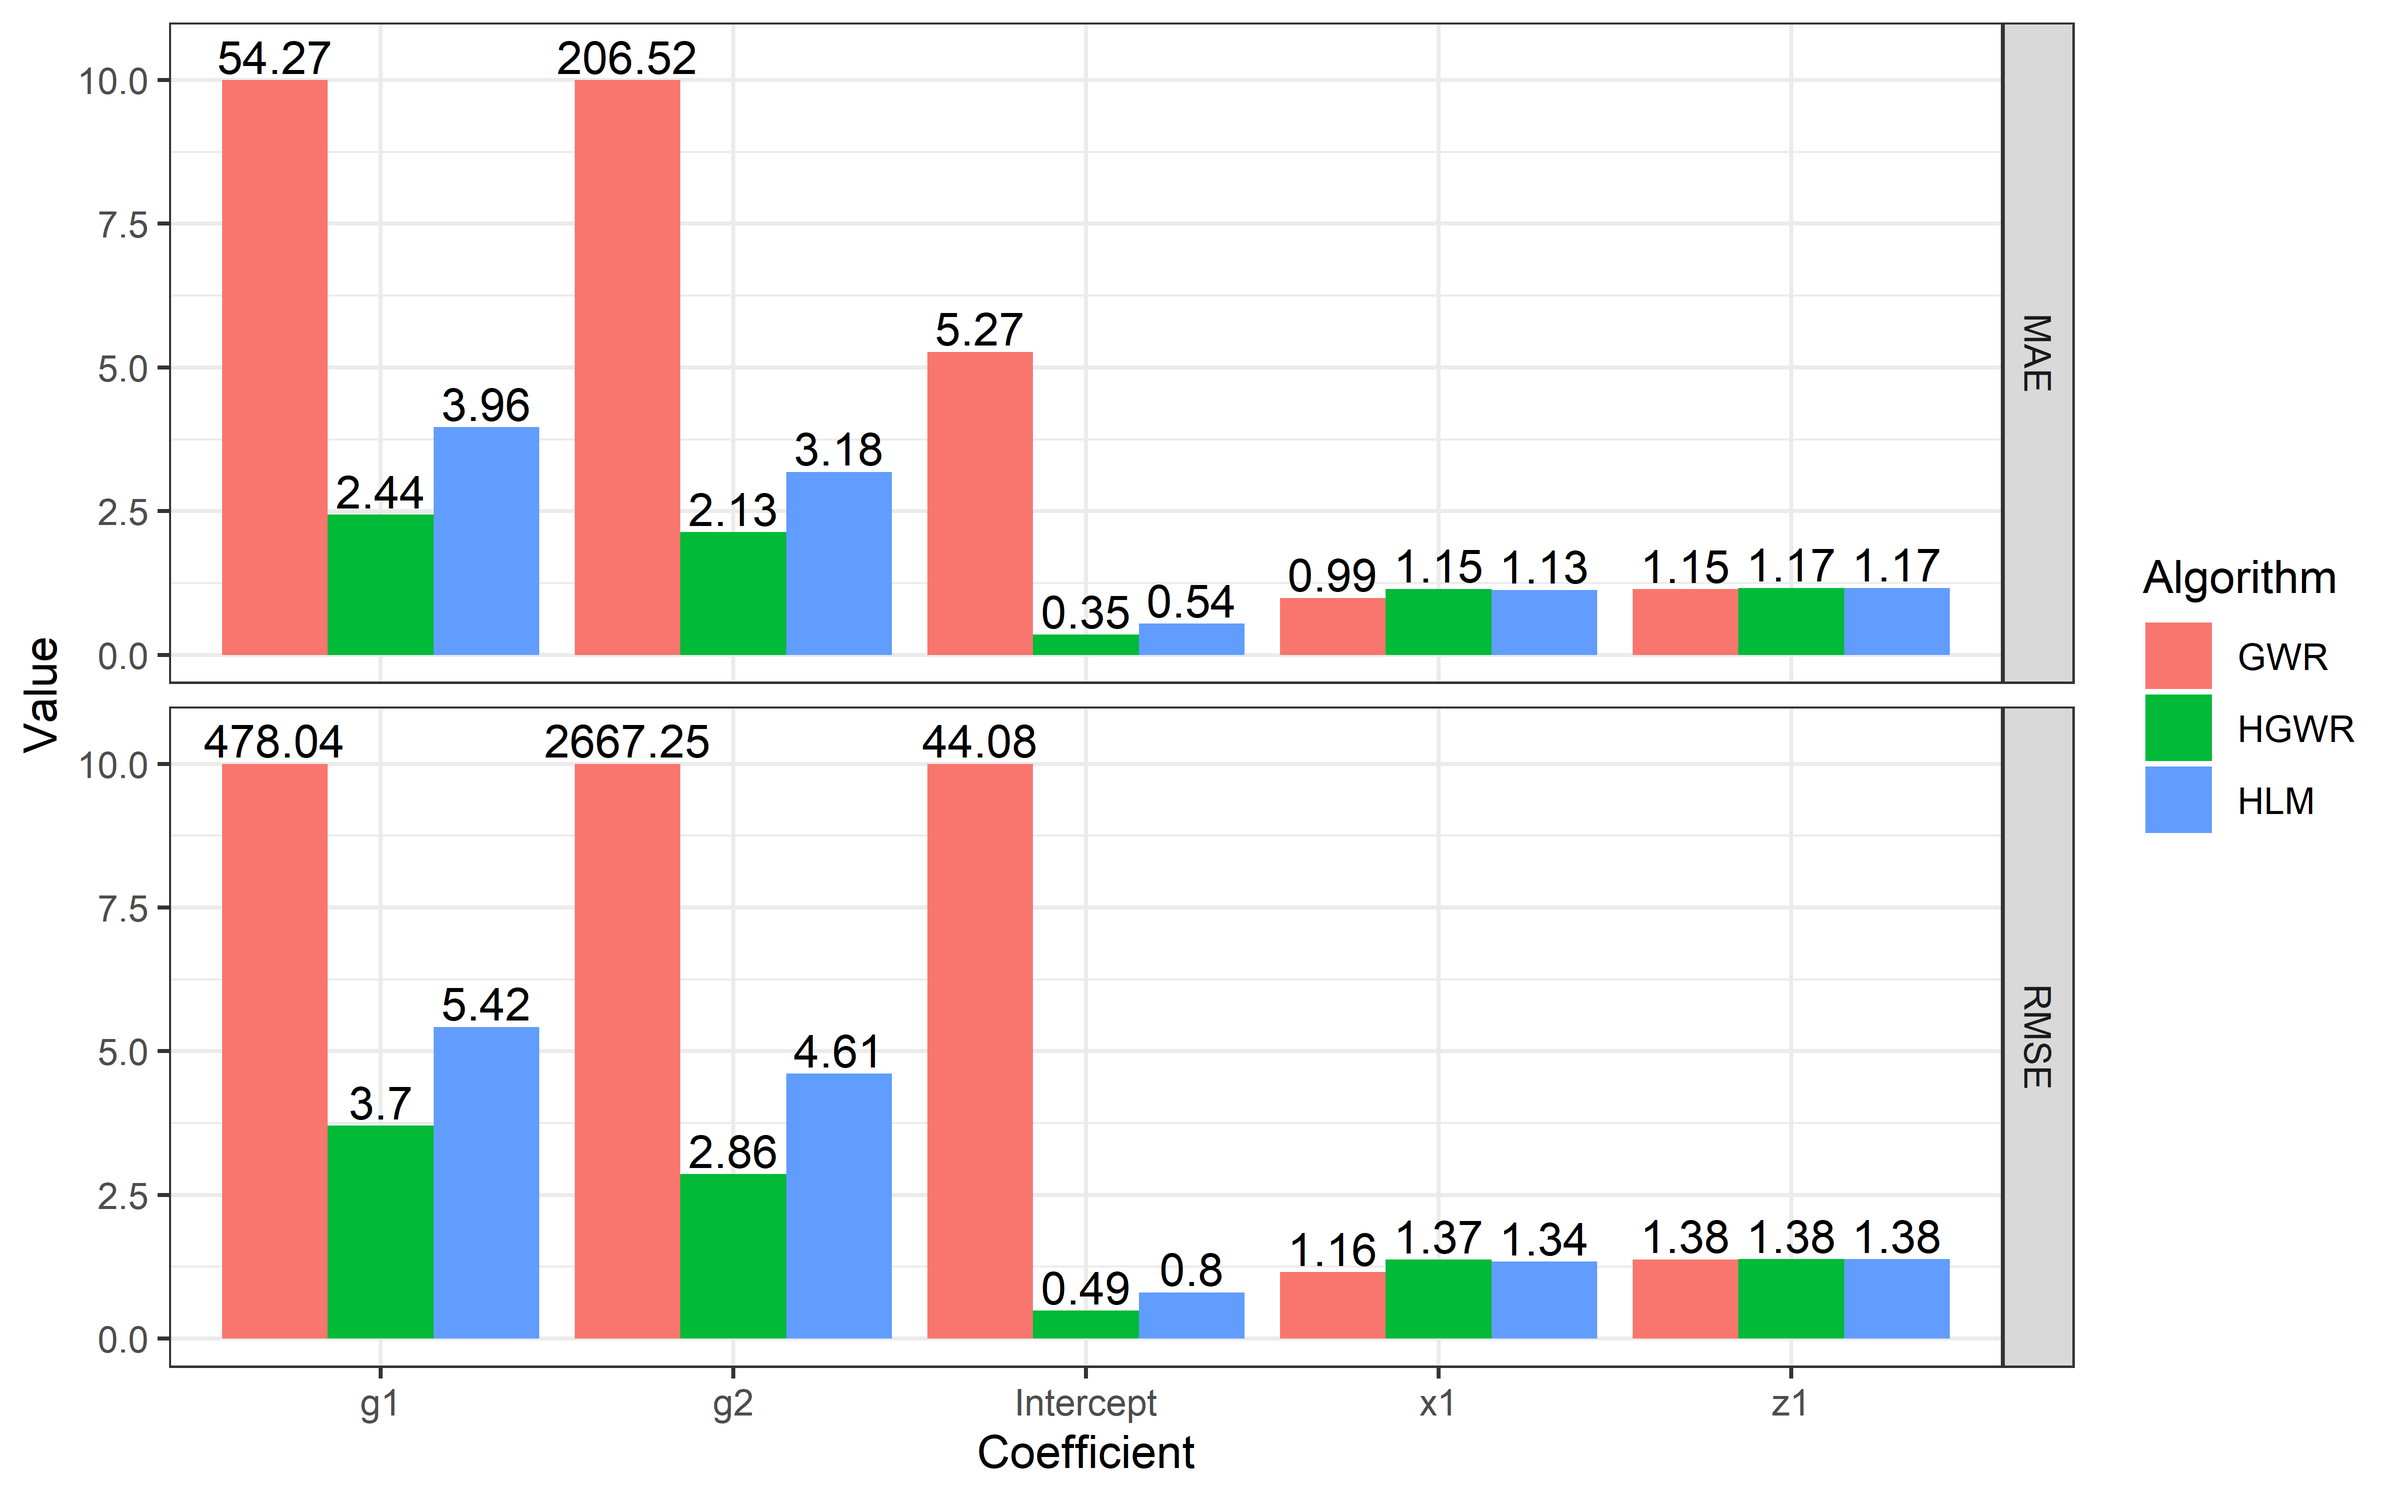
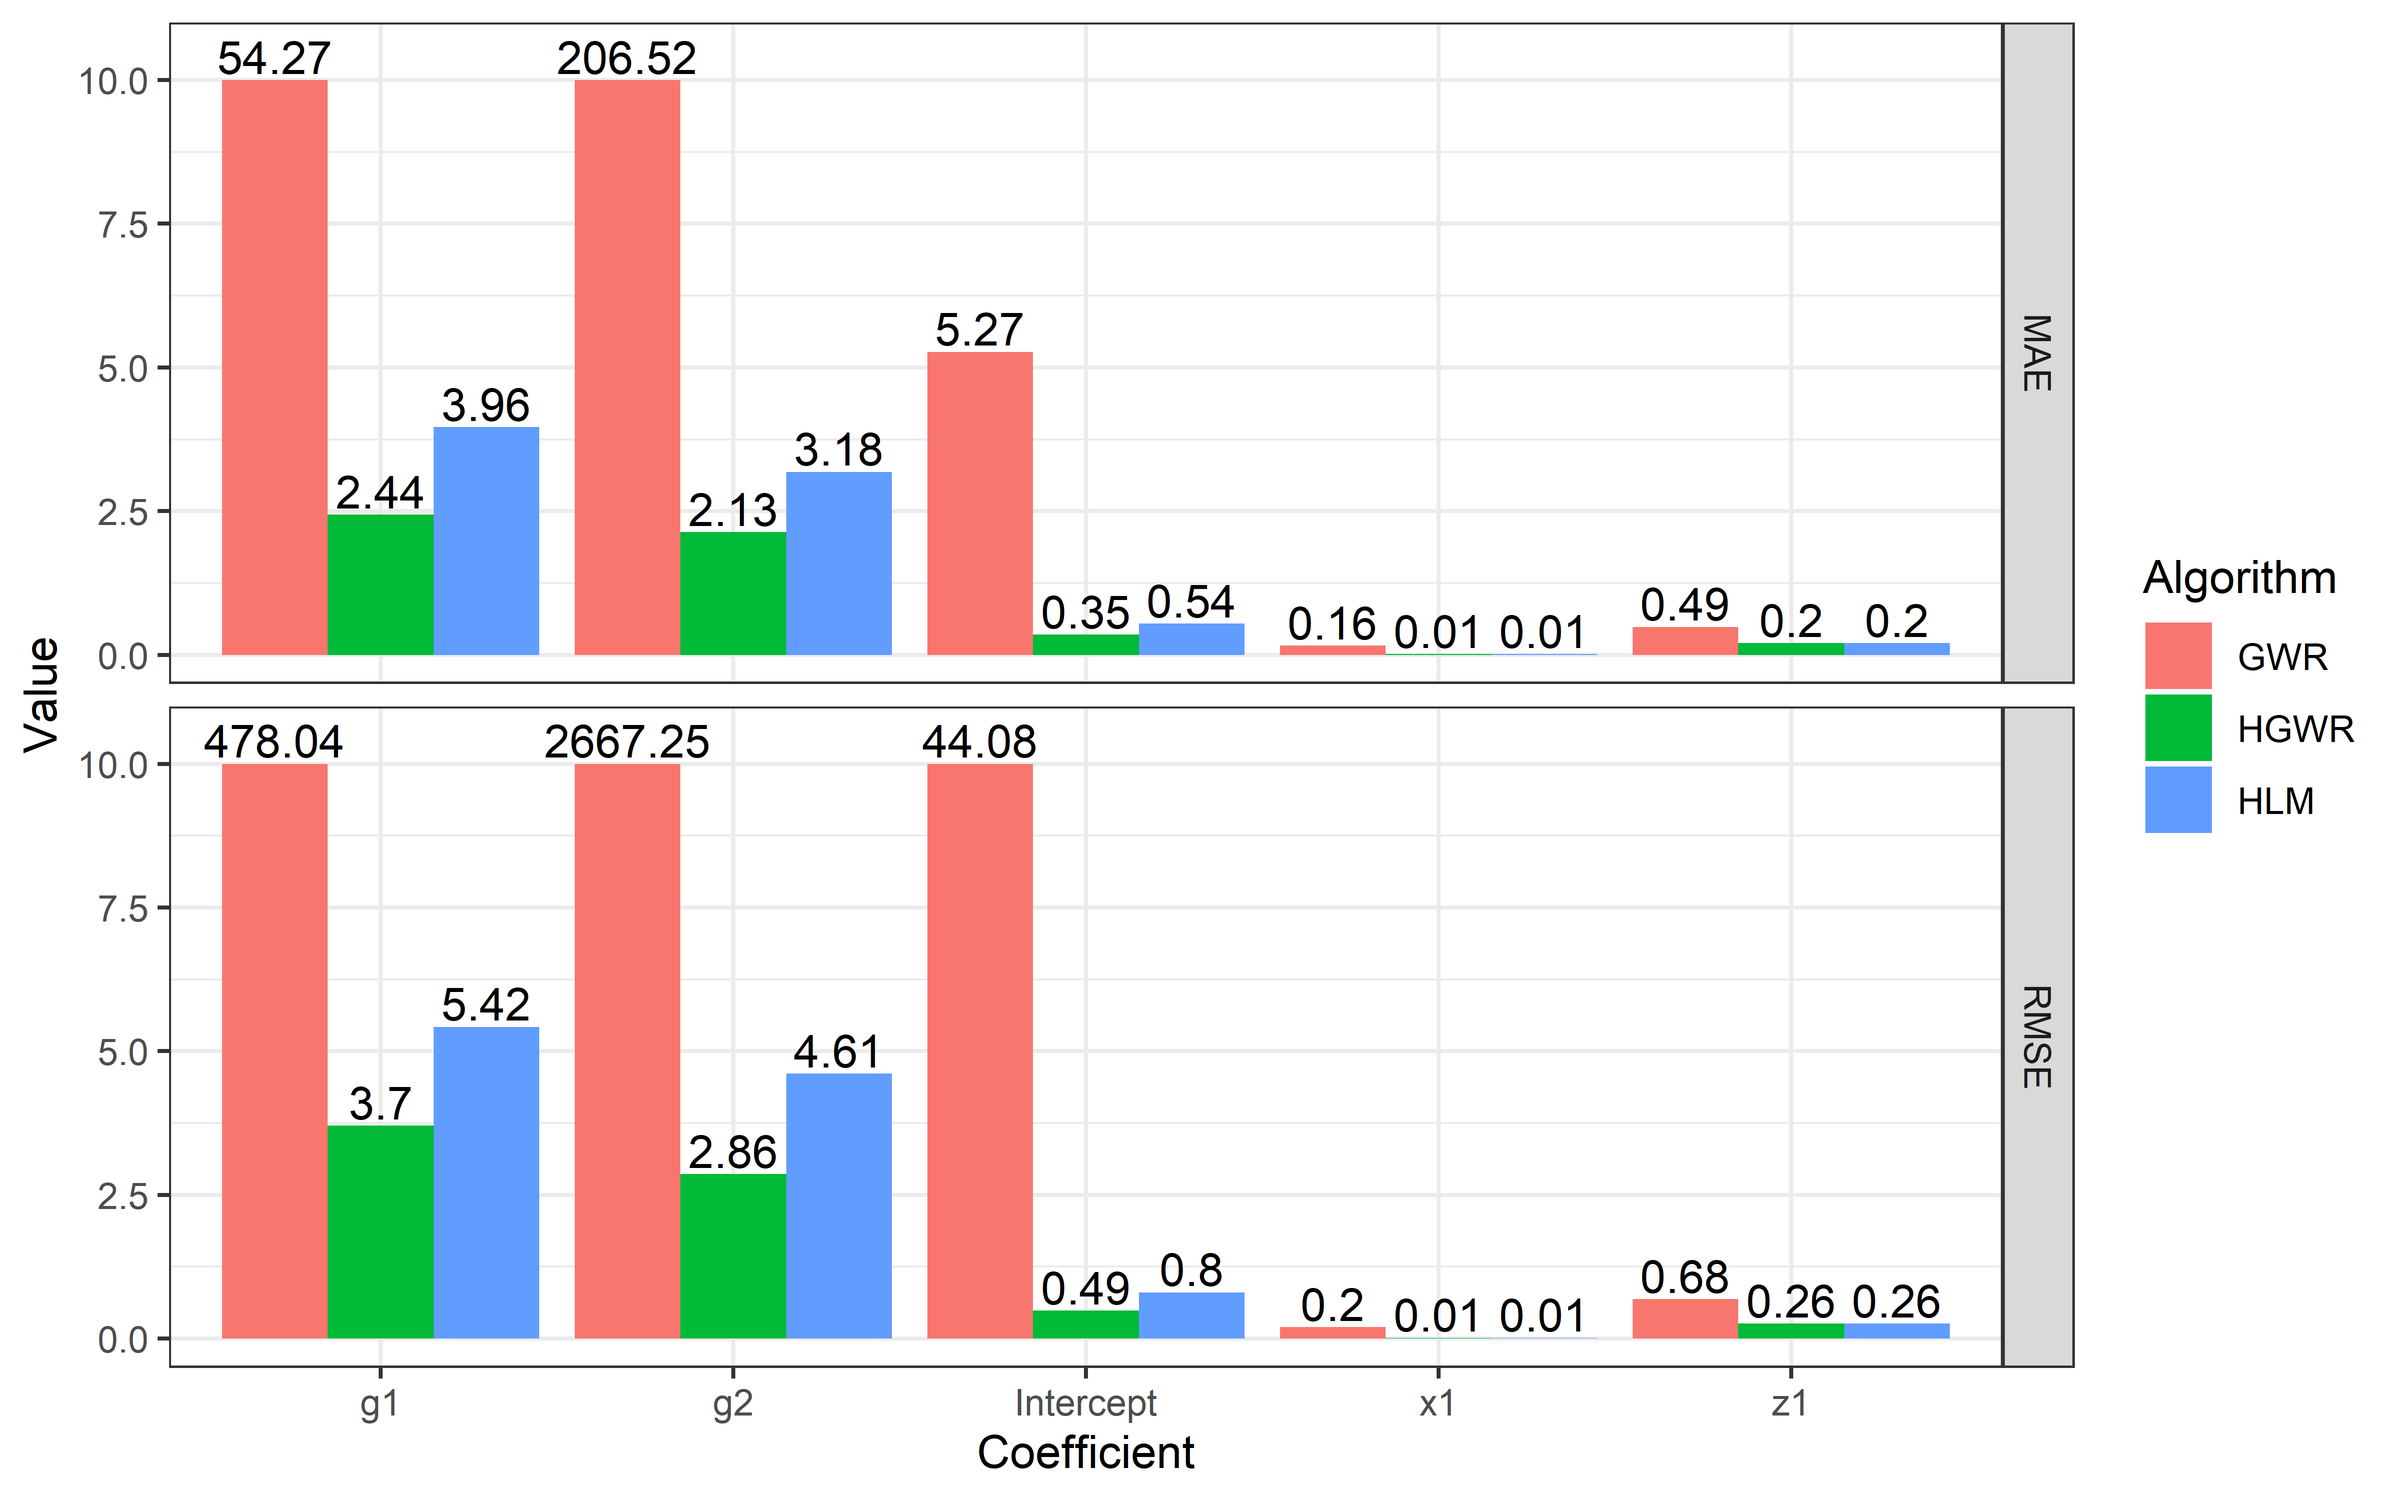
fix: an error in Comparison

Changed region(s): [[0.5312, 0.806, 0.8125, 0.899], [0.5312, 0.372, 0.8125, 0.434]]

diff --git a/index.html b/index.html
@@ -997,7 +997,7 @@ get results.</p>
 and mean absolute errors of estimations and true values are also very
 useful to assess the fitting performance.</p>
 <div class="sourceCode" id="cb23"><pre class="sourceCode r"><code class="sourceCode r"><span id="cb23-1"><a href="#cb23-1" aria-hidden="true" tabindex="-1"></a>msl_hgwr_err <span class="ot">&lt;-</span> <span class="fu">coef</span>(msl_hgwr) <span class="sc">%&gt;%</span></span>
-<span id="cb23-2"><a href="#cb23-2" aria-hidden="true" tabindex="-1"></a>  <span class="fu">select</span>(Intercept, g1, g2, x1, z1) <span class="sc">%&gt;%</span> {</span>
+<span id="cb23-2"><a href="#cb23-2" aria-hidden="true" tabindex="-1"></a>  <span class="fu">select</span>(Intercept, g1, g2, z1, x1) <span class="sc">%&gt;%</span> {</span>
 <span id="cb23-3"><a href="#cb23-3" aria-hidden="true" tabindex="-1"></a>    <span class="fu">as.data.frame</span>(<span class="fu">rbind</span>(</span>
 <span id="cb23-4"><a href="#cb23-4" aria-hidden="true" tabindex="-1"></a>      <span class="at">MAE =</span> <span class="fu">map2_dbl</span>(msl_beta, ., <span class="sc">~</span> <span class="fu">mean</span>(<span class="fu">abs</span>(.x <span class="sc">-</span> .y))),</span>
 <span id="cb23-5"><a href="#cb23-5" aria-hidden="true" tabindex="-1"></a>      <span class="at">RMSE =</span> <span class="fu">map2_dbl</span>(msl_beta, ., <span class="sc">~</span> <span class="fu">sqrt</span>(<span class="fu">mean</span>((.x <span class="sc">-</span> .y)<span class="sc">^</span><span class="dv">2</span>)))</span>
@@ -1022,16 +1022,16 @@ useful to assess the fitting performance.</p>
 <td align="right">0.3529462</td>
 <td align="right">2.437674</td>
 <td align="right">2.134569</td>
-<td align="right">1.165641</td>
-<td align="right">1.148090</td>
+<td align="right">0.2027014</td>
+<td align="right">0.0106994</td>
 </tr>
 <tr class="even">
 <td align="left">RMSE</td>
 <td align="right">0.4856966</td>
 <td align="right">3.703679</td>
 <td align="right">2.862071</td>
-<td align="right">1.382563</td>
-<td align="right">1.371016</td>
+<td align="right">0.2575985</td>
+<td align="right">0.0106994</td>
 </tr>
 </tbody>
 </table>
@@ -1085,7 +1085,7 @@ calibrated with the following codes.</p>
 <span id="cb26-12"><a href="#cb26-12" aria-hidden="true" tabindex="-1"></a>  <span class="fu">summarise_all</span>(mean)</span>
 <span id="cb26-13"><a href="#cb26-13" aria-hidden="true" tabindex="-1"></a><span class="do">##### Calculate RMSE and MAE of estimations.</span></span>
 <span id="cb26-14"><a href="#cb26-14" aria-hidden="true" tabindex="-1"></a>msl_gwr_err <span class="ot">&lt;-</span> msl_gwr_coef <span class="sc">%&gt;%</span></span>
-<span id="cb26-15"><a href="#cb26-15" aria-hidden="true" tabindex="-1"></a>  <span class="fu">select</span>(Intercept, g1, g2, x1, z1) <span class="sc">%&gt;%</span> {</span>
+<span id="cb26-15"><a href="#cb26-15" aria-hidden="true" tabindex="-1"></a>  <span class="fu">select</span>(Intercept, g1, g2, z1, x1) <span class="sc">%&gt;%</span> {</span>
 <span id="cb26-16"><a href="#cb26-16" aria-hidden="true" tabindex="-1"></a>    <span class="fu">as.data.frame</span>(<span class="fu">rbind</span>(</span>
 <span id="cb26-17"><a href="#cb26-17" aria-hidden="true" tabindex="-1"></a>      <span class="at">MAE =</span> <span class="fu">map2_dbl</span>(msl_beta, ., <span class="sc">~</span> <span class="fu">mean</span>(<span class="fu">abs</span>(.x <span class="sc">-</span> .y))),</span>
 <span id="cb26-18"><a href="#cb26-18" aria-hidden="true" tabindex="-1"></a>      <span class="at">RMSE =</span> <span class="fu">map2_dbl</span>(msl_beta, ., <span class="sc">~</span> <span class="fu">sqrt</span>(<span class="fu">mean</span>((.x <span class="sc">-</span> .y)<span class="sc">^</span><span class="dv">2</span>)))</span>
@@ -1110,16 +1110,16 @@ calibrated with the following codes.</p>
 <td align="right">5.27123</td>
 <td align="right">54.27019</td>
 <td align="right">206.523</td>
-<td align="right">1.145032</td>
-<td align="right">0.9914012</td>
+<td align="right">0.4871780</td>
+<td align="right">0.1620288</td>
 </tr>
 <tr class="even">
 <td align="left">RMSE</td>
 <td align="right">44.07530</td>
 <td align="right">478.03679</td>
 <td align="right">2667.250</td>
-<td align="right">1.376936</td>
-<td align="right">1.1573819</td>
+<td align="right">0.6847527</td>
+<td align="right">0.1980524</td>
 </tr>
 </tbody>
 </table>
@@ -1133,7 +1133,7 @@ calibrated with the following codes.</p>
 <span id="cb27-6"><a href="#cb27-6" aria-hidden="true" tabindex="-1"></a>msl_hlm_coef <span class="ot">&lt;-</span> <span class="fu">coef</span>(msl_hlm)<span class="sc">$</span>group</span>
 <span id="cb27-7"><a href="#cb27-7" aria-hidden="true" tabindex="-1"></a><span class="fu">colnames</span>(msl_hlm_coef)[<span class="fu">which</span>(<span class="fu">colnames</span>(msl_hlm_coef) <span class="sc">==</span> <span class="st">&quot;(Intercept)&quot;</span>)] <span class="ot">&lt;-</span> <span class="st">&quot;Intercept&quot;</span></span>
 <span id="cb27-8"><a href="#cb27-8" aria-hidden="true" tabindex="-1"></a>msl_hlm_err <span class="ot">&lt;-</span> msl_hlm_coef <span class="sc">%&gt;%</span></span>
-<span id="cb27-9"><a href="#cb27-9" aria-hidden="true" tabindex="-1"></a>  <span class="fu">select</span>(Intercept, g1, g2, x1, z1) <span class="sc">%&gt;%</span> {</span>
+<span id="cb27-9"><a href="#cb27-9" aria-hidden="true" tabindex="-1"></a>  <span class="fu">select</span>(Intercept, g1, g2, z1, x1) <span class="sc">%&gt;%</span> {</span>
 <span id="cb27-10"><a href="#cb27-10" aria-hidden="true" tabindex="-1"></a>    <span class="fu">as.data.frame</span>(<span class="fu">rbind</span>(</span>
 <span id="cb27-11"><a href="#cb27-11" aria-hidden="true" tabindex="-1"></a>      <span class="at">MAE =</span> <span class="fu">map2_dbl</span>(msl_beta, ., <span class="sc">~</span> <span class="fu">mean</span>(<span class="fu">abs</span>(.x <span class="sc">-</span> .y))),</span>
 <span id="cb27-12"><a href="#cb27-12" aria-hidden="true" tabindex="-1"></a>      <span class="at">RMSE =</span> <span class="fu">map2_dbl</span>(msl_beta, ., <span class="sc">~</span> <span class="fu">sqrt</span>(<span class="fu">mean</span>((.x <span class="sc">-</span> .y)<span class="sc">^</span><span class="dv">2</span>)))</span>
@@ -1158,16 +1158,16 @@ calibrated with the following codes.</p>
 <td align="right">0.5403015</td>
 <td align="right">3.961721</td>
 <td align="right">3.183228</td>
-<td align="right">1.165328</td>
-<td align="right">1.128811</td>
+<td align="right">0.2036397</td>
+<td align="right">0.0102346</td>
 </tr>
 <tr class="even">
 <td align="left">RMSE</td>
 <td align="right">0.8043435</td>
 <td align="right">5.423963</td>
 <td align="right">4.610203</td>
-<td align="right">1.382253</td>
-<td align="right">1.340799</td>
+<td align="right">0.2584218</td>
+<td align="right">0.0102346</td>
 </tr>
 </tbody>
 </table>
